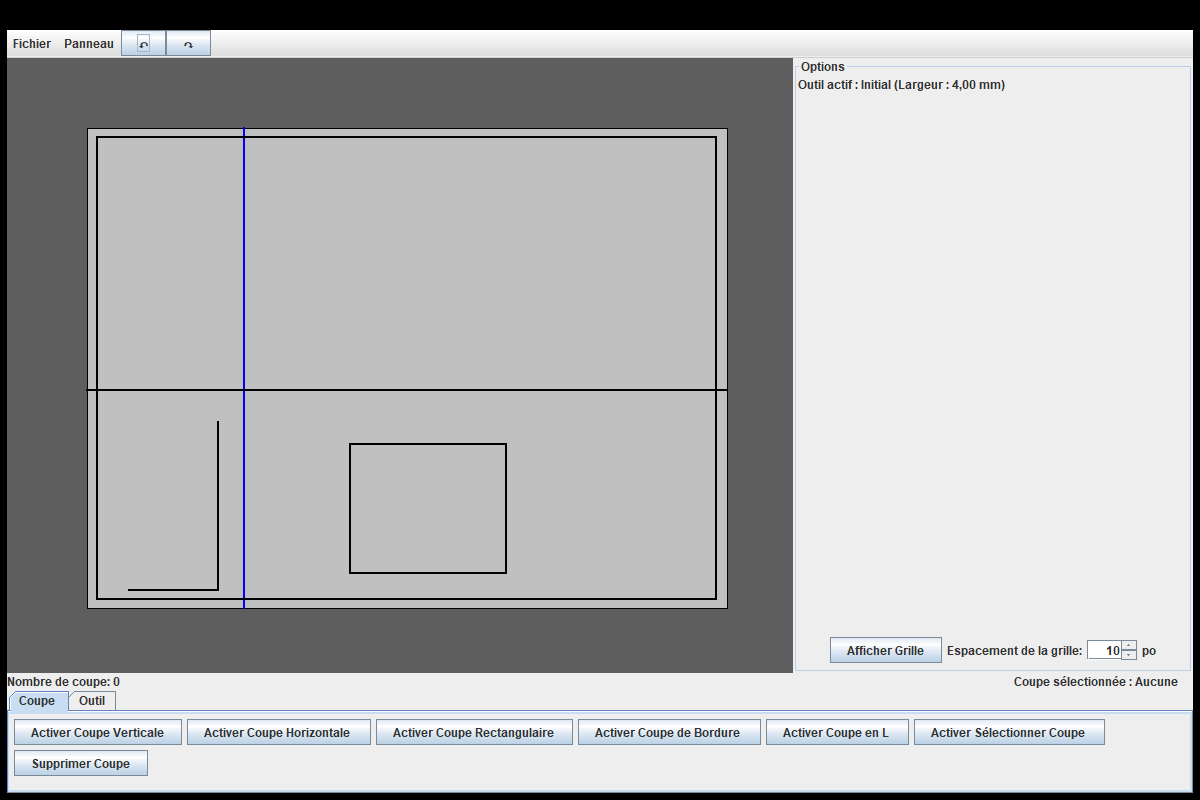
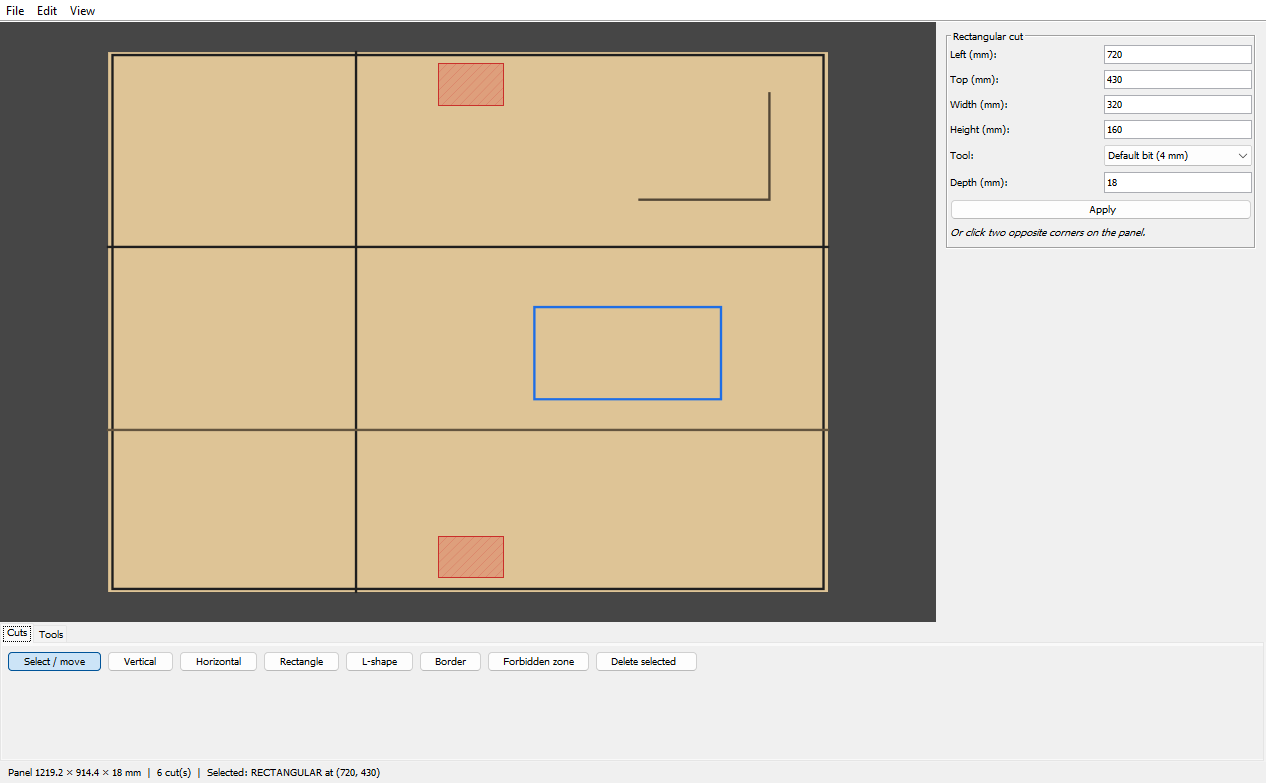
Rewrite the README and refresh the screenshot
- README in English: features, how to use it, G-code conventions, build with the
  wrapper, architecture, changelog; the course credit stays in French.
- New screenshot of a demo panel (border, straight cuts, groove, rectangle,
  L groove, two clamp zones).
- Tools tab: the list now uses the full height, form and buttons on the right;
  the bottom tabs take less room.

diff --git a/src/main/java/ca/ulaval/glo2004/gui/panels/ToolPanel.java b/src/main/java/ca/ulaval/glo2004/gui/panels/ToolPanel.java
@@ -58,13 +58,16 @@ public class ToolPanel extends JPanel {
         create.add(new JLabel(Units.label("Width")));
         create.add(width);
         create.add(add);
-        add(create, BorderLayout.NORTH);
 
         JPanel buttons = new JPanel(new FlowLayout(FlowLayout.LEFT));
         buttons.add(setDefault);
         buttons.add(changeWidth);
         buttons.add(remove);
-        add(buttons, BorderLayout.SOUTH);
+        // List on the left (it gets the whole height); creation form and buttons stacked on the right.
+        JPanel right = new JPanel(new java.awt.GridLayout(2, 1));
+        right.add(create);
+        right.add(buttons);
+        add(right, BorderLayout.EAST);
 
         add.addActionListener(e -> run(() -> {
             controller.addTool(new ToolDto(UUID.randomUUID(), name.getText(), Units.parse(width.getText()), false));

diff --git a/src/main/java/ca/ulaval/glo2004/gui/MainWindow.java b/src/main/java/ca/ulaval/glo2004/gui/MainWindow.java
@@ -88,7 +88,7 @@ public class MainWindow extends JFrame {
         JTabbedPane tabs = new JTabbedPane();
         tabs.addTab("Cuts", createCutTab());
         tabs.addTab("Tools", toolPanel);
-        tabs.setPreferredSize(new Dimension(0, 170));
+        tabs.setPreferredSize(new Dimension(0, 140));
         JPanel bottom = new JPanel(new BorderLayout());
         bottom.add(tabs, BorderLayout.CENTER);
         status.setBorder(BorderFactory.createEmptyBorder(4, 8, 4, 8));

diff --git a/README.md b/README.md
@@ -1,53 +1,99 @@
-# CNC Panel Cutter — Java / Swing
+# CNC Panel Cutter
 
-> *A Java 21 Swing desktop app to plan cuts on a wooden panel for a CNC router: straight, rectangular, L-shaped and border cuts, multiple tools, selection, move/resize, undo/redo and save/load. Layered architecture (domain / DTO / controller / GUI) with a JUnit 5 test suite.*
+[![build](https://github.com/HAJID10/cnc-panel-cutter/actions/workflows/build.yml/badge.svg)](https://github.com/HAJID10/cnc-panel-cutter/actions/workflows/build.yml)
 
-Application de bureau qui rend la CNC aussi simple qu'une scie à panneaux : on définit les dimensions du
-panneau, on place les coupes à la souris ou par valeurs exactes, et on choisit l'outil (largeur de coupe).
+A Java 21 / Swing desktop app to plan the cuts on a wooden panel for a CNC router, and export them as G-code.
+You set the panel size, place cuts with the mouse or with exact values, pick a tool (router bit) for each cut,
+mark the areas the bit must never touch, and the app writes the program for the machine.
 
-![Capture d'écran](docs/capture.png)
+![Screenshot: a panel with a border, straight cuts, a rectangle, an L-shaped groove and two clamp zones](docs/capture.png)
 
-## Fonctionnalités
+## Features
 
-- Coupes **verticales**, **horizontales**, **rectangulaires**, **en L** et **de bordure** (ramène le panneau à une
-  taille finale, toujours centrée).
-- Plusieurs **outils** avec leur largeur de coupe; changer la largeur d'un outil met à jour ses coupes.
-- **Sélection** au clic (avec une tolérance de 3 mm), **déplacement**, **redimensionnement** et changement d'outil.
-- **Annuler / Rétablir**, **enregistrement / ouverture** de projets, grille, zoom.
+- **Five kinds of cut**: vertical, horizontal, rectangular, L-shaped (any direction) and border (trims the panel
+  to a final size, always centred, exactly the size you type).
+- **Mouse or exact values**: click on the panel, or type positions in the side panel. Any cut can be selected,
+  dragged, or edited by values.
+- **Depth per cut**: through cuts (the default) or grooves; shallow grooves are drawn lighter.
+- **Tools**: several bits with their own width. Changing a width updates every cut that uses it, and a tool still
+  in use can't be deleted.
+- **Forbidden zones** (clamps, screws): a cut that would touch one is refused. A zone placed over existing cuts
+  shows them in red, and G-code export waits until they are fixed.
+- **Checks**: cuts must stay on the panel; duplicates and rectangles smaller than the bit are refused, with a
+  clear message.
+- **Millimetres or inches** (View menu). The model and the files always stay in millimetres.
+- **Undo / redo** (last 100 steps), **projects saved as readable JSON**, **G-code export**, grid with snapping,
+  zoom and pan.
+
+## Using it
+
+| Action | How |
+|---|---|
+| Add a cut | Pick its type in the *Cuts* tab, then click on the panel (two clicks for a rectangle, an L or a zone), or fill in the side panel and press *Add*. |
+| Edit a cut | *Select / move*, click the cut, change the values, *Apply*. Or drag it. |
+| Delete | Select it, then *Delete selected* or the Delete key. |
+| Zoom / pan | Mouse wheel / drag an empty spot. *Fit panel to window* resets the view. |
+| Tools | *Tools* tab: add a bit, change its width, choose the one used for new cuts. |
+| Files | *File*: new panel, open / save (`.json`), export G-code (`.nc`). Ctrl+Z / Ctrl+Y undo and redo. |
+
+### G-code conventions
+
+- Millimetres, absolute coordinates (`G21 G90`).
+- Origin at the **bottom-left corner** of the panel, **Z0 on the top surface**. The screen shows y going down,
+  so machine Y = panel length − y.
+- One pass per cut at its full depth. Cuts are grouped by tool, with an `M0` stop to change the bit.
+- Fixed defaults: feed 1000 mm/min, plunge 300 mm/min, safe height 5 mm, spindle 18 000 rpm.
+  **Check them for your machine and material before running the program.**
+
+## Build and run
+
+Requirements: JDK 21. Maven is not needed, the wrapper downloads it.
+
+```bash
+./mvnw package                      # compiles and runs the 86 tests (mvnw.cmd on Windows)
+java -jar target/cnc-panel-cutter.jar
+```
 
 ## Architecture
 
 ```
-GUI (Swing)  ──>  CNC_Controller  ──>  domain (Panneau, Coupe et sous-classes, Outil)
-                        │
-                        └── dto + assembleurs (états immuables pour l'affichage, l'historique et les fichiers)
-infra/UndoRedoManager   historique et sérialisation
+gui (Swing)  ──>  controller.CncController  ──>  domain: Panel, Cut + 5 subclasses, Tool, ForbiddenZone
+                         │
+                         ├── dto + mappers   read-only copies for the screen, the undo history and files
+                         └── infra           History (undo/redo), ProjectFile + Json, GCodeWriter
 ```
 
-Chaque coupe décrit le **trajet** suivi par le centre de l'outil (`Line2D`, `Path2D`, `Rectangle2D`); la zone coupée
-et la zone de sélection en sont déduites avec un `BasicStroke` de la largeur de l'outil.
+- The interface only receives DTOs, so it can't change the model behind the controller's back.
+- Each cut describes the **path** followed by the centre of the bit (`Line2D`, `Path2D`, `Rectangle2D`). The
+  removed material, the click area, the drawing, the zone checks and the G-code are all derived from that path,
+  so they always agree.
+- Every change goes through one method of the controller: if the domain refuses it, the panel is put back as it
+  was and no empty undo step is left.
+- No dependencies apart from JUnit 5 (JSON reading and writing is a small class of its own).
 
-## Compiler et lancer
+The original UML model (Visual Paradigm) is in [`docs/modele-uml.vpp`](docs/modele-uml.vpp).
 
-Prérequis : JDK 21+ et Maven 3.9+.
+## Changelog
 
-```bash
-mvn package                          # compile et exécute les 30 tests
-java -jar target/cnc-panel-cutter.jar
-```
+**2026, after the course**
 
-## Conception
+- Code, interface and documentation translated to English; the cut types now carry their own behaviour (no more
+  chains of `instanceof`).
+- New: depth per cut, forbidden zones, L-cut editor, mm / inch switch, G-code export, decimal positions.
+- Projects saved as JSON instead of Java serialization (files survive code changes, and opening one can't run
+  code).
+- Fixed: empty undo steps after a refused action, deleting a tool still in use, negative sizes for L cuts drawn
+  backwards, duplicate cuts, borders 4 mm too small, depth equal to the bit width, rounding to whole millimetres.
+- Maven wrapper, GitHub Actions build, 86 tests (there were 30).
 
-Le modèle UML (Visual Paradigm) est dans [`docs/modele-uml.vpp`](docs/modele-uml.vpp).
+**Earlier fixes**: tests that no longer compiled, moving a cut through the interface that moved a copy, cut ids
+that changed after undo or loading, redo that broke the history, border and half of the L that couldn't be
+selected, cut areas twice too wide, rectangles stretched when moved, `.jar` that wouldn't start.
 
-## Crédits
+## Credits
 
-Projet d'équipe réalisé dans le cadre du cours GLO-2004 / IFT-2007 (Génie logiciel orienté objet, Université Laval,
-automne 2024) par **Ismail Regragui, Taha-Yassine Rouissi, Bilal Draa, Yassine Tabet et Hajid Jeddi**.
+Projet d'équipe réalisé dans le cadre du cours GLO-2004 / IFT-2007 (Génie logiciel orienté objet, Université
+Laval, automne 2024) par **Ismail Regragui, Taha-Yassine Rouissi, Bilal Draa, Yassine Tabet et Hajid Jeddi**.
+Reprise et améliorations en 2026 par Hajid Jeddi.
 
-Corrections apportées ensuite : les tests étaient tous en commentaire et ne compilaient plus (réécrits : 30 tests);
-déplacer ou redimensionner une coupe via l'interface agissait sur une copie; les identifiants des coupes changeaient
-après chaque annulation ou chargement; « Rétablir » corrompait l'historique; la sélection remplissait l'historique;
-coupes de bordure impossibles à sélectionner et créées avec largeur et longueur inversées; une moitié de la coupe en
-L non sélectionnable; zones de coupe deux fois trop larges; rectangle étiré lors d'un déplacement; `.jar` non
-exécutable.
+MIT License, see [`LICENSE`](LICENSE).
